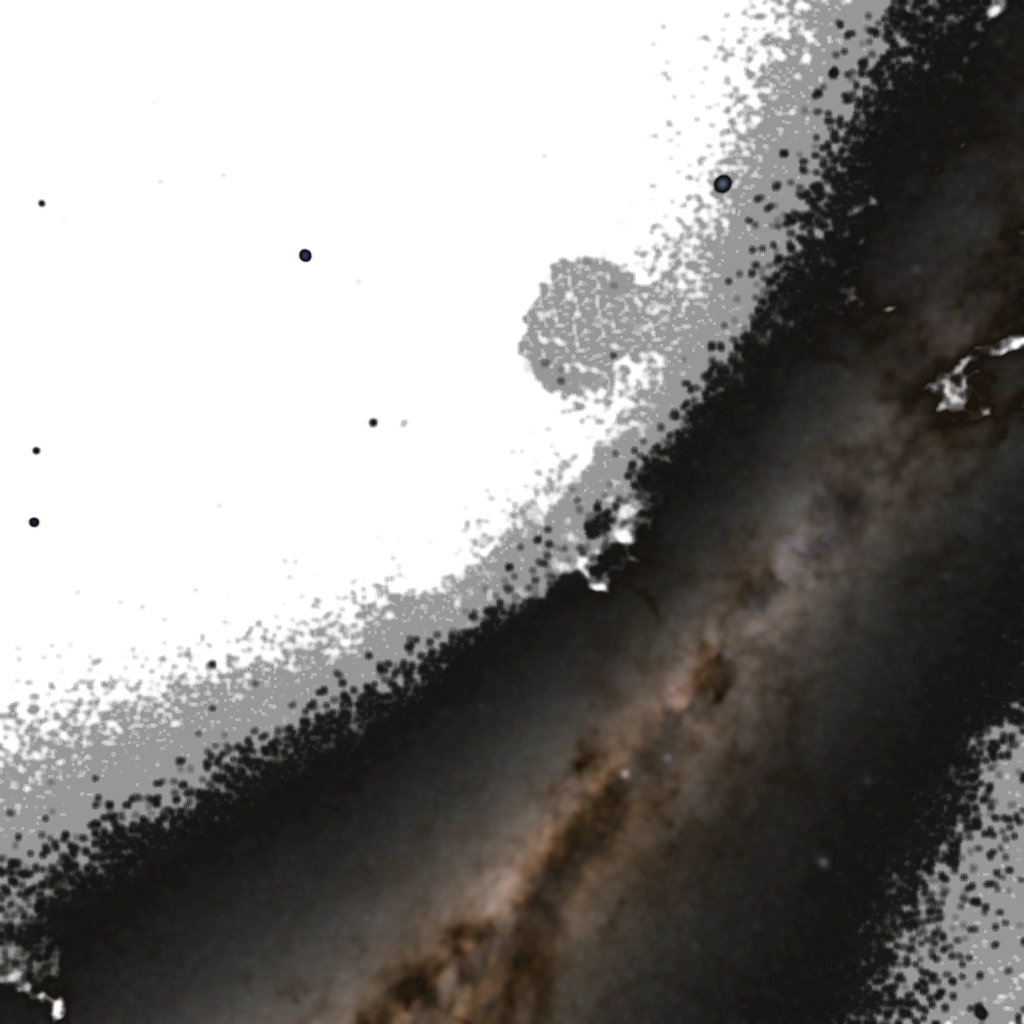
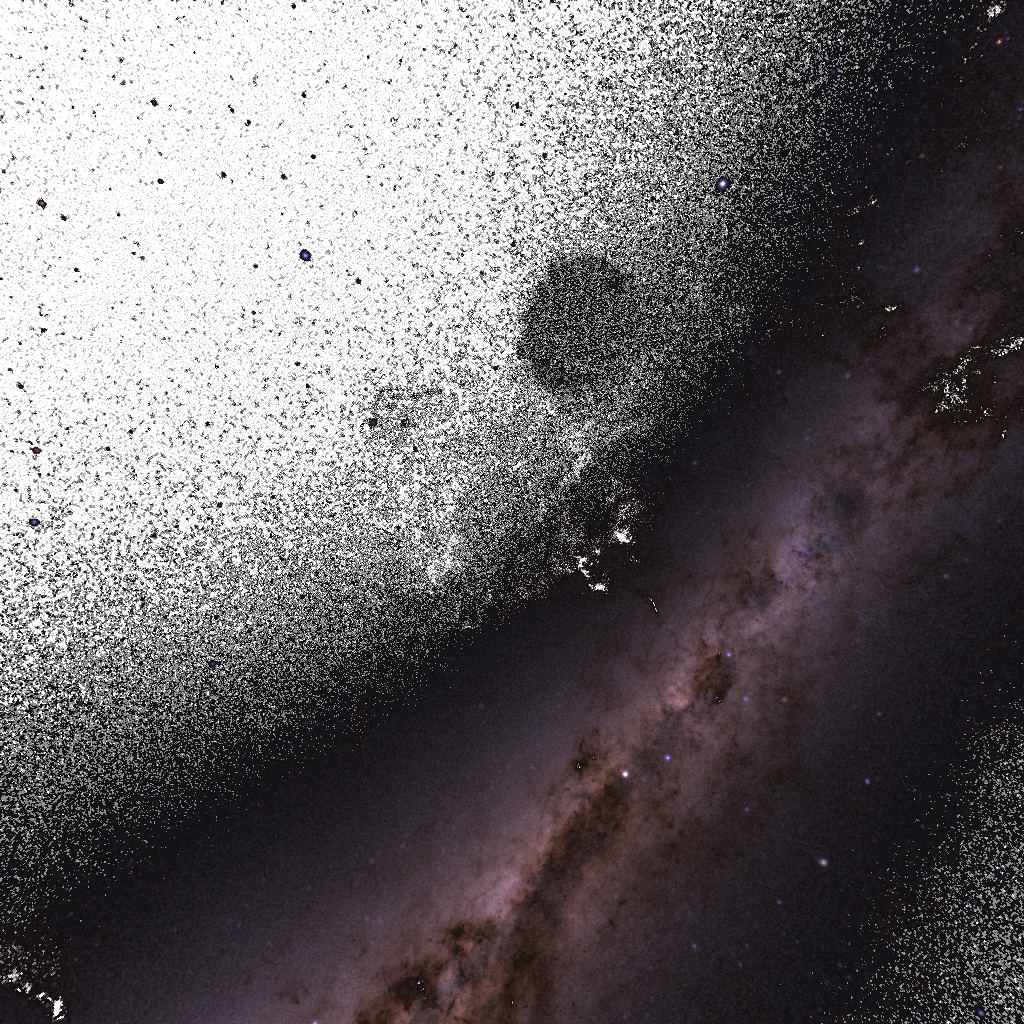
feat: enhance Milky Way diagonal view with crisp starless nebula and enforce camera sea-level height floor

diff --git a/src/main.js b/src/main.js
@@ -2563,19 +2563,16 @@ import { postProcessing as composer, scenePass, initPostProcessing, bloomPass, g
     // Golden Hour Dusk look is provably untouched (neutral value at dusk).
     // ==========================================
     const uMilkyWayOpacity = uniform(0.0);
-    const uMilkyWayBrightness = uniform(1.5);
-    const uMilkyWayFilter = uniform(0.06); // luminance threshold — pixels below fade out (suppresses point stars)
+    const uMilkyWayBrightness = uniform(1.15);
     let milkyWayMesh = null;
     // Live-tunable so the look can be perfected from the GUI (Environment > Moonlight & Night
-    // > Milky Way Photo). The bright galactic core lives on the -Z / -Y faces of this cubemap,
-    // so the default tilt swings that core up into the forward view as an arc across the sky.
+    // > Milky Way Photo). Configured to produce a dramatic diagonal galactic arc across the night sky.
     const milkyWayParams = {
-        brightness: 1.5,   // multiplies texture colour; core clips slightly for a glow
-        opacity: 0.95,     // max blend at full night
-        filter: 0.06,      // luminance threshold: raise to kill more stars from the equirect
-        tiltX: -32,        // degrees — lifts the -Z core up toward the zenith
-        tiltY: 18,         // degrees — swings the core left/right into view
-        tiltZ: 24          // degrees — diagonal lean of the galactic band
+        brightness: 1.15,  // multiplies texture colour naturally
+        opacity: 1.0,      // max blend at full night
+        tiltX: -18,        // degrees — positions galactic core at optimal elevation
+        tiltY: 42,         // degrees — swings the core across the diagonal view
+        tiltZ: 42          // degrees — diagonal lean matching starry night photography
     };
     const applyMilkyWayTilt = () => {
         if (!milkyWayMesh) return;
@@ -2604,13 +2601,9 @@ import { postProcessing as composer, scenePass, initPostProcessing, bloomPass, g
             blending: THREE.AdditiveBlending
         });
         // Standard sphere UVs map the equirect panorama seamlessly.
-        // Luminance threshold mask: suppresses small point-stars from the equirect while preserving
-        // the broad diffuse galaxy band (which sits well above the threshold).
         const mwSample = texture(mwTex);
         const mwRaw = mwSample.rgb.mul(mwSample.a);
-        const mwLum = dot(mwRaw, vec3(0.299, 0.587, 0.114));
-        const mwMask = tslSmoothstep(uMilkyWayFilter, uMilkyWayFilter.add(float(0.25)), mwLum);
-        mwMat.colorNode = mwRaw.mul(mwMask).mul(uMilkyWayBrightness);
+        mwMat.colorNode = mwRaw.mul(uMilkyWayBrightness);
         mwMat.opacityNode = uMilkyWayOpacity;
 
         const mwGeo = new THREE.SphereGeometry(16000, 64, 32);
@@ -2634,7 +2627,7 @@ import { postProcessing as composer, scenePass, initPostProcessing, bloomPass, g
     const uAuroraTime = uniform(0.0);
     let auroraMesh = null;
     const auroraParams = {
-        opacity: 0.75,
+        opacity: 0.0,      // Off by default to keep starry night clean
         intensity: 1.0,
         speed: 1.0,
         altitude: 2500,  // Y offset above camera
@@ -4915,7 +4908,6 @@ import { postProcessing as composer, scenePass, initPostProcessing, bloomPass, g
             if (milkyWayMesh) {
                 uMilkyWayOpacity.value = skyUniforms.uNightFactor.value * milkyWayParams.opacity;
                 uMilkyWayBrightness.value = milkyWayParams.brightness;
-                uMilkyWayFilter.value = milkyWayParams.filter;
                 milkyWayMesh.visible = uMilkyWayOpacity.value > 0.01;
                 const activeCam = isGodMode ? godCamera : camera;
                 activeCam.getWorldPosition(tempVec1);
@@ -6013,7 +6005,6 @@ import { postProcessing as composer, scenePass, initPostProcessing, bloomPass, g
             const mwPhoto = moonFolder.addFolder('Milky Way Photo');
             mwPhoto.add(milkyWayParams, 'brightness', 0.0, 4.0, 0.05).name('Brightness');
             mwPhoto.add(milkyWayParams, 'opacity', 0.0, 1.0, 0.05).name('Opacity');
-            mwPhoto.add(milkyWayParams, 'filter', 0.0, 0.4, 0.01).name('Star Filter (↑ fewer photo stars)');
             mwPhoto.add(milkyWayParams, 'tiltX', -180, 180, 1).name('Elevation (tip up/down)').onChange(applyMilkyWayTilt);
             mwPhoto.add(milkyWayParams, 'tiltY', -180, 180, 1).name('Azimuth (spin L/R)').onChange(applyMilkyWayTilt);
             mwPhoto.add(milkyWayParams, 'tiltZ', -180, 180, 1).name('Roll').onChange(applyMilkyWayTilt);

diff --git a/src/physics/PlayerPhysics.js b/src/physics/PlayerPhysics.js
@@ -76,17 +76,18 @@ export class PlayerPhysics {
         
         this.character.position.add(this.tempVec1.multiplyScalar(this.velocity * delta));
 
-        // Anti-Clipping Floor Constraint
-        const groundY = getWorldHeight(this.character.position.x, this.character.position.z);
-        const minimumFlightHeight = 18;
+        // Anti-Clipping Floor Constraint (strictly above terrain and sea level)
+        const seaLevelY = 2.4;
+        const groundY = Math.max(getWorldHeight(this.character.position.x, this.character.position.z), seaLevelY);
+        const minimumFlightHeight = 24;
         
         // In Lush Jungle, raise the floor so Kiki flies above the canopy (trees are ~36m tall)
         const biome = getBiomeAt(this.character.position.x, this.character.position.z);
         const inJungle = biome && biome.name && biome.name.toLowerCase().includes('jungle');
-        const canopyHeight = inJungle ? 42 : 15; // 42m clears the 36m canopy with breathing room
+        const canopyHeight = inJungle ? 42 : 18; // clearance above ground/sea
 
         // Auto-swoop to avoid terrain collisions
-        const targetMinY = groundY + (inJungle ? 65 : 55);
+        const targetMinY = groundY + (inJungle ? 65 : 45);
         if (this.character.position.y < targetMinY) {
             const depth = targetMinY - this.character.position.y;
             const swoopPitch = Math.min(Math.PI / 4, depth / 40.0);
@@ -98,7 +99,7 @@ export class PlayerPhysics {
             }
         }
         
-        this.character.position.y = Math.min(Math.max(this.character.position.y, minimumFlightHeight), this.maxAltitude);
+        this.character.position.y = Math.min(Math.max(this.character.position.y, groundY + canopyHeight, minimumFlightHeight), this.maxAltitude);
 
         // Tree Collisions disabled - Kiki flies above the jungle canopy
     }

diff --git a/src/physics/CameraManager.js b/src/physics/CameraManager.js
@@ -15,13 +15,13 @@ export class CameraManager {
         // Settings
         this.BASE_FOV = 60;
         this.cameraZoomDist = initialZoomDist;
-        this.minTerrainClearance = 3.0;
-        this.minWaterClearance = 3.5;
+        this.minTerrainClearance = 8.0;
+        this.minWaterClearance = 16.0; // Enforces minimum elevation above sea level
     }
     
     update(delta, playerGrp, currentYaw, isBoosting, waterLevel = 2.4) {
         const defaultCamDist = this.cameraZoomDist;
-        const defaultCamHeight = this.cameraZoomDist * 0.15;
+        const defaultCamHeight = Math.max(4.0, this.cameraZoomDist * 0.25);
         
         // Smoothly lerp camera to default distance using exponential decay
         const decayZoom = 1.0 - Math.exp(-5.0 * delta);
